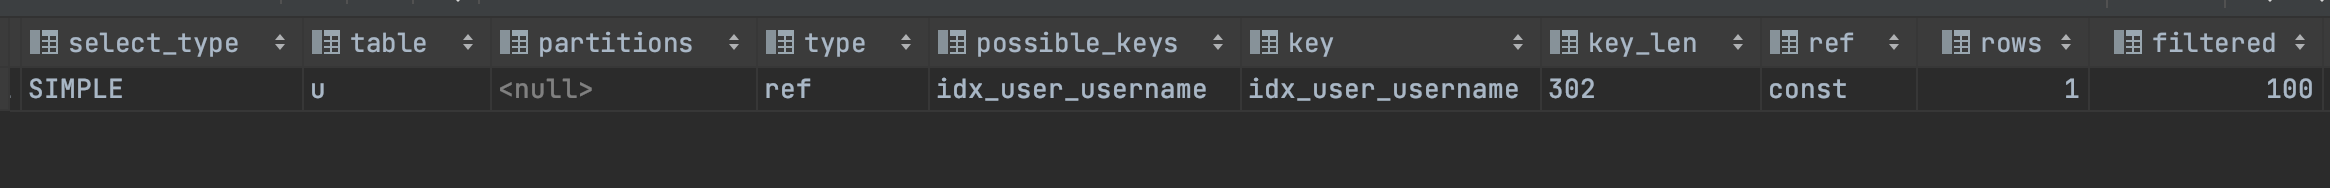
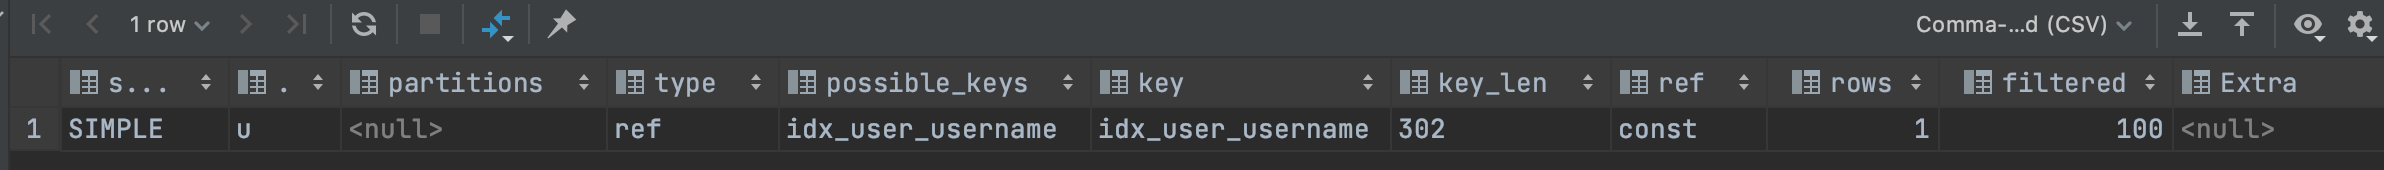
1、索引模糊查询左对齐 2、覆盖索引

diff --git a/mysql/索引.md b/mysql/索引.md
@@ -14,4 +14,23 @@ explain select * from user u where u.username = 'x';
 ````
 explain select username from user u where u.username = 'x';
 ````
+1.2.2 索引覆盖 查询结果中只有该索引
+````
+explain select username from user u where u.username = 'x';
+````
+![](1.2.2.png)
 
+1.2.3 索引模糊查询 左对齐
+````
+explain select * from user u where u.username like 'x%';
+
+````
+![](1.2.3.png)
+
+
+
+1.3 主键查询
+````
+explain select * from user u where u.id = 1;
+````
+![](1.3.png)
